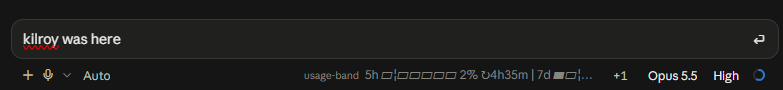
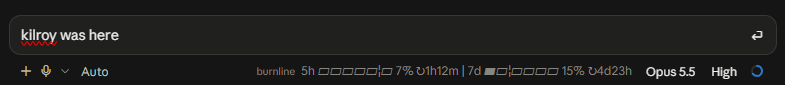
burnline 0.4.1: visible as soon as a session opens
- Remember the last usage figures across sessions and show them before
  the first reply; show empty bars if none are known yet.
- Send the line again when a window attaches and 3 s after start, so the
  desktop app gets it even if it connects late.
- session.start can no longer fail silently before the line is set.
- README: real screenshot with the burnline name.

diff --git a/hooks/register.ts b/hooks/register.ts
@@ -36,6 +36,8 @@ const limitText = (limit: Limit, now: number) => {
   const win = WINDOWS[limit.kind]
   if (!win) return []
   const left = limit.resetsAt ? Date.parse(limit.resetsAt) - now : NaN
+  // A remembered window that has reset since shows as fresh until the next reply brings real figures.
+  if (left <= 0) return [`${win.label} ${bar(0)} 0%`]
   const known = Number.isFinite(left)
   const elapsed = known ? Math.min(1, Math.max(0, 1 - left / win.ms)) : undefined
   return [`${win.label} ${bar(limit.percentUsed, elapsed)} ${Math.round(limit.percentUsed)}%${known ? ` ↻${countdown(left)}` : ''}`]
@@ -55,18 +57,39 @@ const taskText = (list: Task[]) => {
   return [`${before}${dots}${after} ${done}/${list.length}`]
 }
 
+// The line is never blank: with no figures yet it shows empty bars, until a reply has shown
+// whether this account has plan limits at all (an API key has none, and then they're dropped).
+let replied = false
+const PLACEHOLDER = [`5h ${bar(0)} –%`, `7d ${bar(0)} –%`]
+
 async function refresh($: EngineInterface) {
   const now = await $.clock.now()
+  const limitParts = (await read($, limits)).flatMap(l => limitText(l, now))
   const parts = [
-    ...(await read($, limits)).flatMap(l => limitText(l, now)),
+    ...(limitParts.length || replied ? limitParts : PLACEHOLDER),
     ...taskText(await read($, tasks)),
   ]
   $.ui.status(parts.length ? parts.join(' | ') : undefined)
 }
 
-async function setLimits($: EngineInterface, list: readonly Limit[]) {
-  await update($, limits, () => list.map(({ kind, percentUsed, resetsAt }) => ({ kind, percentUsed, resetsAt })))
+// Usage figures arrive only with a reply, so a new or resumed session starts with none. Limits are per
+// account, so the last figures any session saw are remembered across sessions and shown until then.
+// Clears first, so an unchanged line still reaches a window that connected after it was set.
+async function resend($: EngineInterface) {
+  $.ui.status(undefined)
   await refresh($)
+}
+
+async function setLimits($: EngineInterface, list: readonly Limit[]) {
+  const clean = list.map(({ kind, percentUsed, resetsAt }) => ({ kind, percentUsed, resetsAt }))
+  await update($, limits, () => clean)
+  if (clean.length) await $.store.set('limits', clean)
+  await refresh($)
+}
+
+async function rememberedLimits($: EngineInterface): Promise<Limit[]> {
+  const saved = await $.store.get('limits')
+  return Array.isArray(saved) ? (saved as Limit[]) : []
 }
 
 async function setTasks($: EngineInterface, fn: (list: Task[]) => Task[]) {
@@ -93,17 +116,34 @@ const passThrough = ($: unknown, e: any, next: (e: any) => any) => next(e)
 
 export const register: Register = on => {
   on('session.start', async ($, e, next) => {
-    await setLimits($, (await $.session.usage()).rateLimits)
     $.clock.every(60_000, () => void refresh($)) // keeps the countdowns and pace markers moving
+    // The desktop window may connect a moment after the session starts: send the line again then.
+    $.clock.after(3_000, () => void resend($))
+    try {
+      const fresh = (await $.session.usage()).rateLimits
+      await setLimits($, fresh.length ? fresh : await rememberedLimits($))
+    } catch {
+      await refresh($) // no figures to be had: the placeholder still shows
+    }
 
     return next(e)
-  })
+  }).catch(passThrough)
+
+  // A window connecting later doesn't get a line set before it: send it again.
+  on('session.attach', async ($, e, next) => {
+    const attached = await next(e)
+    await resend($)
+
+    return attached
+  }).catch(passThrough)
 
   on('session.measure', async ($, e, next) => {
-    await setLimits($, e.rateLimits)
+    replied = true
+    if (e.rateLimits.length) await setLimits($, e.rateLimits)
+    else await refresh($)
 
     return next(e)
-  })
+  }).catch(passThrough)
 
   // A new prompt clears a finished task list, so the next goal starts clean.
   on('prompt.submit', async ($, e, next) => {

diff --git a/tests/burnline.test.ts b/tests/burnline.test.ts
@@ -1,6 +1,8 @@
 import { expect, mock, test } from 'claude-code/testing'
 
 // Answers the engine nouns beneath the mod and records the last status line it set.
+// No reply has come in a test, so the line starts with the empty-bar placeholder.
+const EMPTY = '5h ▱▱▱▱▱▱ –% | 7d ▱▱▱▱▱▱ –% | '
 const harness = (on: any) => {
   const seen = { line: undefined as string | undefined }
   mock.clock(on, { now: Date.parse('2026-10-03T10:00:00Z') })
@@ -17,19 +19,19 @@ test('task dots: window of seven around the current task, counts on both sides',
   for (let i = 1; i <= 21; i++) await classic.TaskCreated({ task_id: String(i), task_subject: `Step ${i}` })
   for (let i = 1; i <= 11; i++) await classic.TaskCompleted({ task_id: String(i), task_subject: `Step ${i}` })
   await $.tool.call({ tool: 'TaskUpdate', taskId: '12', status: 'in_progress' } as any)
-  expect(seen.line).toBe('8✓ ●●●◉○○○ +6 11/21')
+  expect(seen.line).toBe(EMPTY + '8✓ ●●●◉○○○ +6 11/21')
 
   await $.tool.call({ tool: 'TaskUpdate', taskId: '21', status: 'deleted' } as any)
-  expect(seen.line).toBe('8✓ ●●●◉○○○ +5 11/20')
+  expect(seen.line).toBe(EMPTY + '8✓ ●●●◉○○○ +5 11/20')
 })
 
 test('a finished list is replaced by the next plan', async ($, on) => {
   const seen = harness(on)
   const classic = $.classic as any
   await classic.TaskCreated({ task_id: '1', task_subject: 'Only task' })
-  expect(seen.line).toBe('◉ 0/1')
+  expect(seen.line).toBe(EMPTY + '◉ 0/1')
   await classic.TaskCompleted({ task_id: '1', task_subject: 'Only task' })
-  expect(seen.line).toBe('● 1/1')
+  expect(seen.line).toBe(EMPTY + '● 1/1')
   await classic.TaskCreated({ task_id: '2', task_subject: 'Next goal' })
-  expect(seen.line).toBe('◉ 0/1')
+  expect(seen.line).toBe(EMPTY + '◉ 0/1')
 })

diff --git a/README.md b/README.md
@@ -24,7 +24,7 @@ burnline  5h ▰▰▰¦▱▱▱ 29% ↻4h10m | 7d ▰▰▰▰▰¦▱ 49% ↻
 
 The task part appears only while Claude has a task list, which it usually makes for multi-step goals. A finished list is cleared when you send your next prompt, so each new goal starts fresh.
 
-The line refreshes after every reply, whenever a task changes, and once a minute so the countdowns keep moving.
+The line refreshes after every reply, whenever a task changes, and once a minute so the countdowns keep moving. The line is there as soon as a session opens: it shows your last known figures (or empty `–%` bars on a fresh install) until the first reply brings fresh ones.
 
 ## Install
 
@@ -54,7 +54,7 @@ Answer `y` to add the marketplace, then pick a scope (user scope makes it run in
 
 Mods run with your permissions, so here is the full list, as `claude plugin validate` reports it:
 
-- **Calls:** the clock, your session's usage figures, the session's own saved values, and the status line.
+- **Calls:** the clock, your session's usage figures, the session's own saved values, the status line, and Claude Code's plugin storage, where it keeps your last usage figures so a new session can show them before its first reply.
 - **Reads:** your 5-hour and 7-day usage percentages and reset times, and the names and status of Claude's tasks.
 - **No** file access, network requests, programs started, or model calls. Nothing leaves your machine.
 
